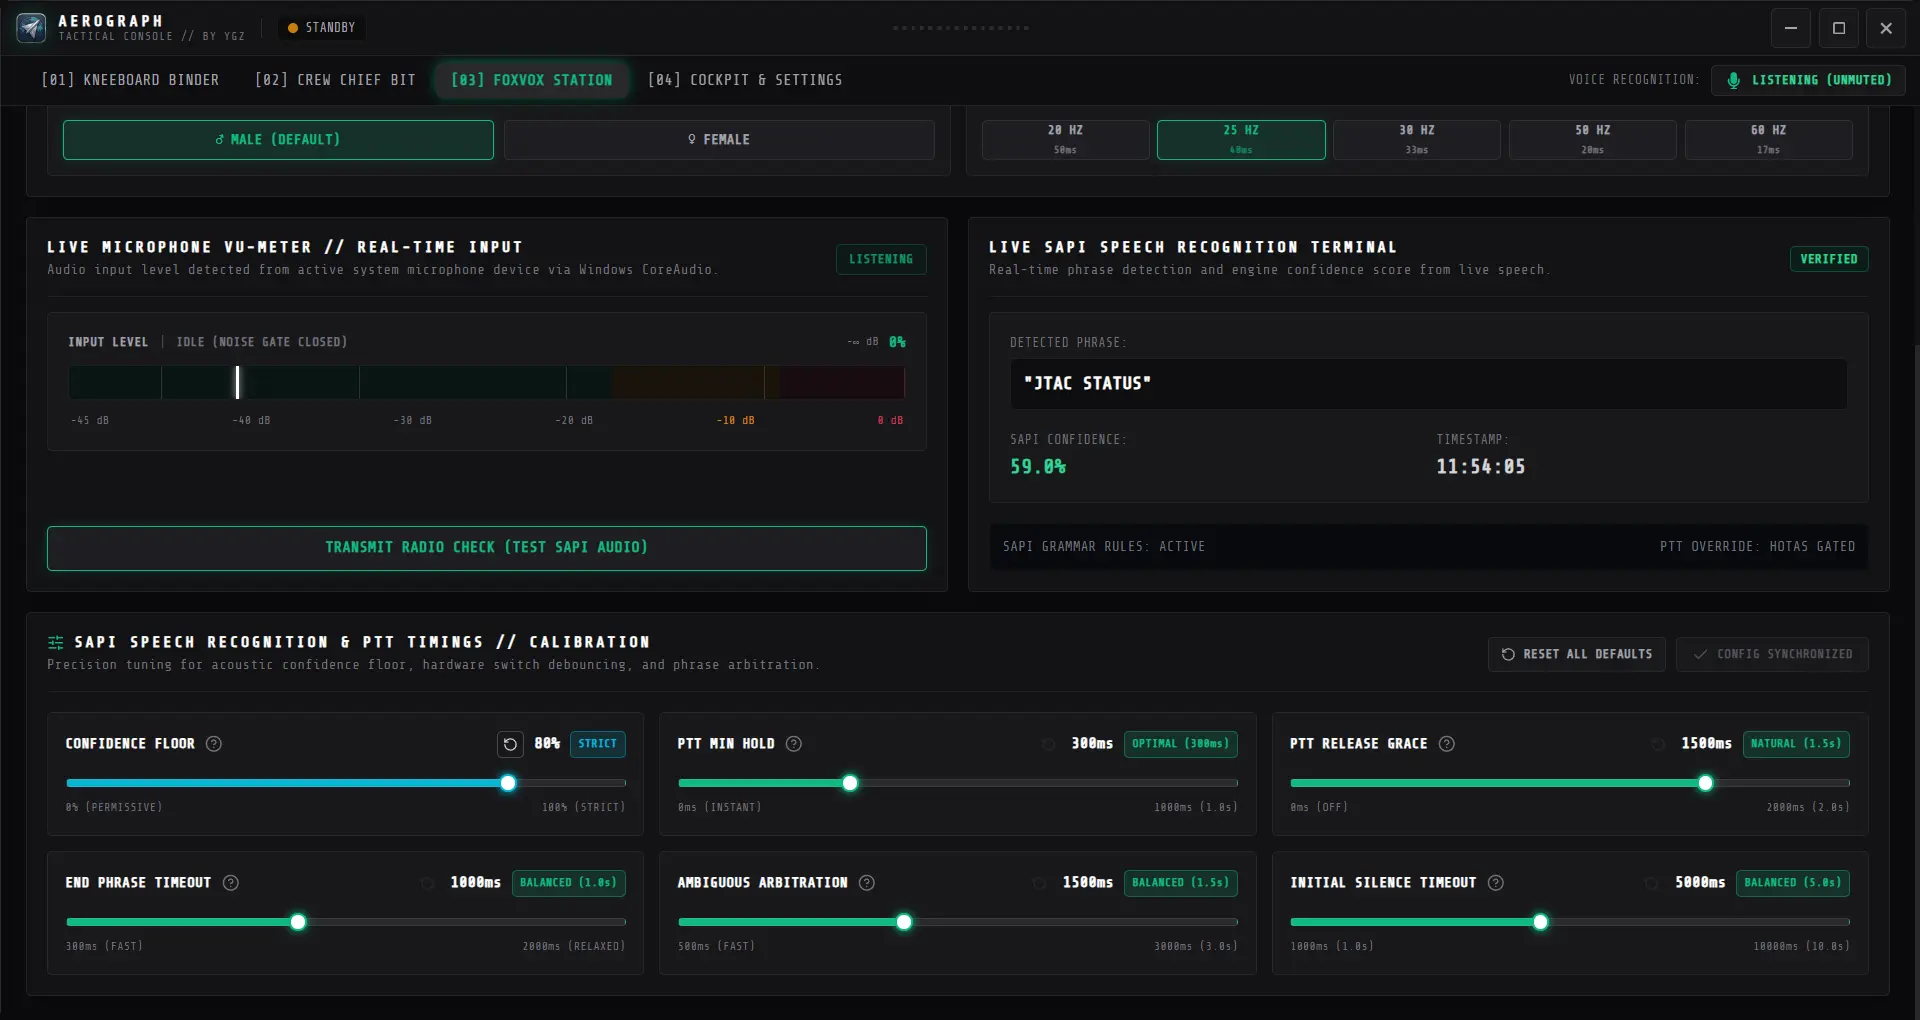
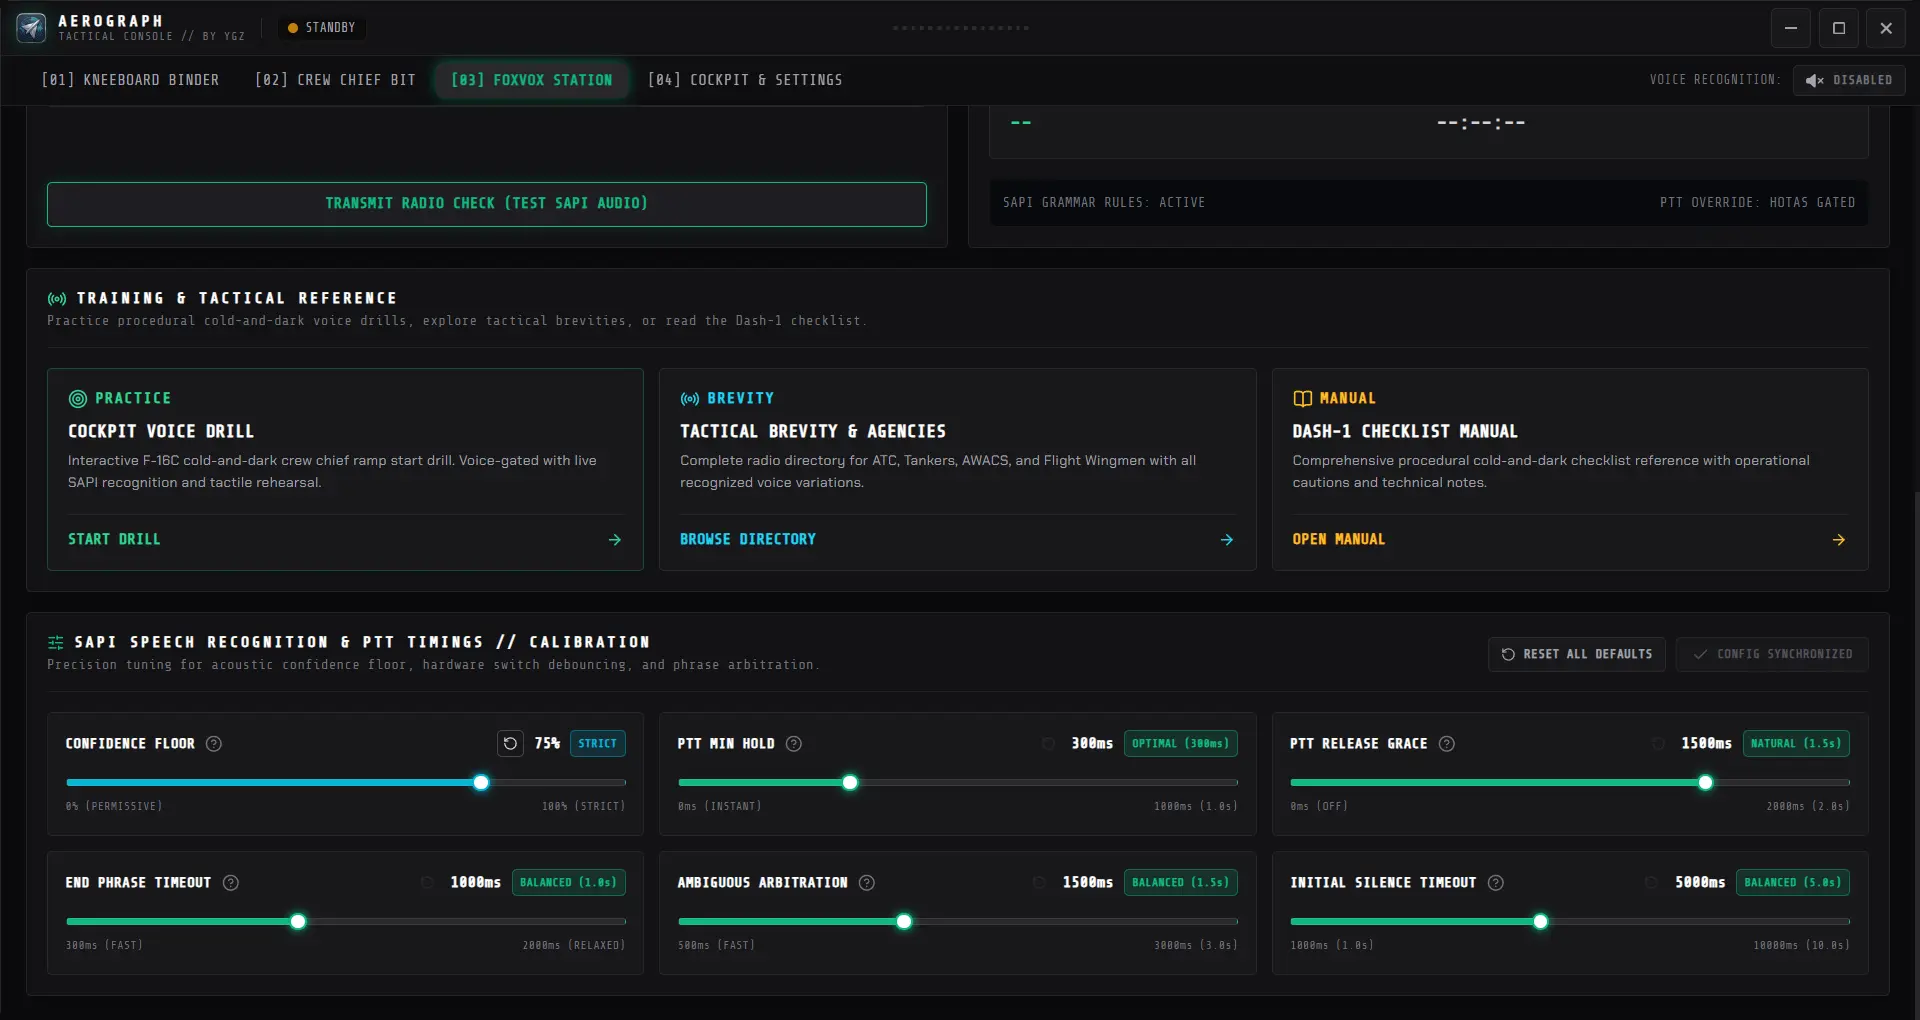
docs: document Crew Chief Academy modules, architecture subsystem, and interactive training cues

diff --git a/README.md b/README.md
@@ -48,7 +48,7 @@
 1. **Automated Kneeboard Generator & Live Briefing Watcher**: 
    A multi-threaded pipeline that detects mission briefings and dynamically renders pixel-calibrated, high-contrast, VR-optimized kneeboards (Package Roster, Comms Ladder, Steerpoints, Weather, 16k SkyVector Route & Combat Area Maps, Dynamic Airfield Ground Taxi Diagrams, ILS Approach Plates, and T.O. 1F-16 POH Flight Reference Cards). Texture injection into Falcon BMS 3D cockpit files (`7982.dds` through `7997.dds`) executes in **under 1.5 seconds**, while the entire end-to-end cycle; from briefing file detection to HTML rendering, map cropping, and texture injection, typically finishes in **under 10 seconds**.
 2. **Crew Chief & Cockpit Voice Engine**: 
-   A speech-recognition copilot and ground crew engine powered by the Microsoft Speech API (SAPI), DirectInput 8 HOTAS hardware axis and button sampling, and FoxVox `.fvx` profiles. Includes state-machine tracking (e.g. MPO kick check validation, wheel chocks, external air/power, engine start sequences) and low-latency audio cue feedback.
+   A speech-recognition copilot and ground crew engine powered by the Microsoft Speech API (SAPI), DirectInput 8 HOTAS hardware axis and button sampling, and FoxVox `.fvx` profiles. Includes state-machine tracking (e.g. MPO kick check validation, wheel chocks, external air/power, engine start sequences), low-latency audio cue feedback, and the **Crew Chief Academy** for procedural voice ramp start rehearsals, Dash-1 checklists, and in-flight brevity reference.
 
 ---
 
@@ -580,7 +580,7 @@ The **Crew Chief BIT** view is a dedicated pre-flight diagnostic station for fli
   <em>FoxVox Station: Real-time CoreAudio microphone VU-meter, live SAPI speech recognition terminal, and profile controller.</em>
 </p>
 
-The **FoxVox Station** is your comms center and real-time speech operations dashboard, uniting profile management, real-time audio meters, and live phrase recognition:
+The **FoxVox Station** is your comms center and real-time speech operations dashboard, uniting profile management, real-time audio meters, live phrase recognition, and the interactive **Crew Chief Academy**:
 
 #### 8.1 Profile Controller & Engine Management
 - **Voice Recognition Master Toggle**: One-click switch to turn speech recognition and controller switch sampling `ON` or `OFF`.
@@ -640,6 +640,57 @@ Different pilots fly with different microphones, headset background noise, and H
 - **`RESET ALL DEFAULTS`**: One-click reset to restore all six calibration parameters together.
 - **`DISCARD`**: Abandons unsaved slider changes and restores your currently saved configuration.
 - **`APPLY CONFIGURATION (UNSAVED)`**: A pulse-highlighted emerald button appears whenever any slider is adjusted. Clicking it writes your changes to `aerograph.toml` and hot-reloads the active Windows SAPI engine parameters live in memory without restarting AeroGraph or interrupting Falcon BMS!
+
+---
+
+#### 8.4 Crew Chief Academy & Procedural Voice Trainer
+
+The **Crew Chief Academy** is an interactive procedural training and reference module built directly into the FoxVox Station. It allows virtual pilots to practice the complete ramp start sequence with real-time speech validation, study the flight manual checklist, and look up in-flight voice commands.
+
+##### 8.4.1 Interactive Cockpit Voice Drill (`[PRACTICE DRILL]`)
+
+<p align="center">
+  <img src="docs/images/voice-drill.webp" alt="Cockpit Voice Drill Practice Stage" width="950" /><br />
+  <em>Cockpit Voice Drill: Step-by-step sequential ramp start rehearsal with live speech recognition, visual cockpit panel locators, and DirectInput flight control surface monitors.</em>
+</p>
+
+The **Cockpit Voice Drill** walks you through the entire ramp start sequence step by step before jumping into the simulator:
+- **Sequential 18-Step Rehearsal**: Progresses through pre-start comms checks, JFS engagement, SEC checks, FLCS BIT clearance, manual trim checks, control surface movements, and wheel chock removal.
+- **Live Speech Verification**: Listens for your authentic voice transmissions through your microphone and validates them against the active voice profile grammar before advancing to the next step.
+- **Cockpit Locator Guides**: Visual cues and locator overlays highlight the exact panel, switch position, and avionics indicators associated with each procedural check.
+- **Real-Time Control Surface Feedback**: Integrated live gauges for Elevator, Ailerons, Rudder, and Toe Brakes during control checks.
+- **Dedicated Ground Audio**: Automatically silences background profile triggers while in drill mode, playing authentic step-by-step ground crew feedback.
+
+##### 8.4.2 Tactical Brevity & Agencies Directory (`[TACTICAL BREVITY]`)
+
+<p align="center">
+  <img src="docs/images/brevity.webp" alt="Tactical Brevity and Agencies Directory" width="950" /><br />
+  <em>Tactical Brevity Directory: Real-time agency voice catalog with live hot-mic speech recognition and automated card centering.</em>
+</p>
+
+The **Tactical Brevity Directory** acts as a live voice command reference across all agencies:
+- **Agency Categorization**: Filter commands across ATC, AWACS, Tanker, Flight, and Wingman agencies.
+- **Live Voice Detection**: Speak any brevity phrase into your microphone; the directory automatically highlights the matching command card and scrolls it smoothly into view.
+- **In-Flight Safe**: Safe to open during active flights—it never reloads the voice profile or interrupts ongoing communications.
+
+##### 8.4.3 Dash-1 Procedural Checklist Manual (`[CHECKLIST MANUAL]`)
+
+<p align="center">
+  <img src="docs/images/dash-1.webp" alt="Dash-1 Procedural Checklist Manual" width="950" /><br />
+  <em>Dash-1 Checklist Manual: High-contrast procedural ledger organized by operational phase with step codes, pilot directives, verbal callouts, and panel locations.</em>
+</p>
+
+The **Dash-1 Checklist Manual** provides an authentic flight manual checklist organized in a clean, high-contrast ledger:
+- **Operational Phases**: Color-coded phase badges (`PRE_START`, `ENGINE_START`, `SECONDARY_POWER`, `FLIGHT_CONTROLS`, `TAXI_CLEAR`).
+- **Four-Column Breakdown**:
+  - **Step & Code**: Sequential reference numbers.
+  - **Action Item**: Exact cockpit directive and switch position.
+  - **Verbal Callout**: The spoken pilot transmission or crew chief response.
+  - **Panel Location**: Cockpit location coordinates for rapid switch acquisition.
+
+##### 8.4.4 Operational Familiarization Notice
+
+When entering the Cockpit Voice Drill or Dash-1 Checklist, an operational notice shares the my personal cockpit flow (integrating DTC loading, sensor power-up, and avionics setup between steps) and highlights the priority of the official Falcon BMS documentation. You can dismiss the notice permanently using the *"Do not show this notice again"* checkbox, or re-open it at any time using the `?` icon in the top header.
 
 ---
 
@@ -886,6 +937,9 @@ Use `{color: text}` anywhere in your titles, keys, values, warnings, cautions, c
 For a complete breakdown of all available voice interactions, dialogue trees, hardware DirectInput bindings, and T.O. 1F-16 cockpit procedures, see the dedicated reference:
 
 👉 **[Crew Chief & Cockpit Voice Engine Guide](docs/VOICE_COMMANDS.md)**
+
+> 💡 **Interactive Practice Available:**  
+> You can practice the complete ramp start dialogue interactively using your microphone in TAC's **Cockpit Voice Drill** (`[03] FOXVOX STATION` &rarr; `[PRACTICE DRILL]`) before heading to the flight line.
 
 ### Key Highlights:
 - **System Commands**: Say `"Stand by"` to mute recognition before speaking on human comms; say `"Radio check"` to resume.

diff --git a/docs/ARCHITECTURE.md b/docs/ARCHITECTURE.md
@@ -44,6 +44,7 @@ flowchart TD
         BINDER["Dual Flight Pads Binder<br/>(32 Slots, Live Preview & Staging)"]
         BIT["Crew Chief BIT Station<br/>(Hardware Axis Gauges & MPO)"]
         COMMS["FoxVox Station<br/>(VU Meter, Live Terminal & 6 Sliders)"]
+        ACADEMY["Crew Chief Academy<br/>(Voice Drill, Dash-1 Checklist & Brevity)"]
         SYS["Cockpit & System Settings<br/>(Theme Palettes, Sound & AutoDock)"]
     end
 
@@ -139,6 +140,10 @@ flowchart TD
   - **`ipc.rs`**: Typed JSON IPC bridge handling window controls, telemetry streaming (25 Hz), CoreAudio levels, profile reloading, and config synchronization.
   - **`preset/`**: Standalone mission preset bundles (`.aeropreset`). Gzip-compresses 32-slot configurations, custom notes, HTML templates, and user images with base64 encoding and byte-level deduplication on import.
   - **`SmartAutoDock`**: Automatically closes and tears down the WebView2 instance upon entering Falcon BMS 3D flight, freeing 100% of GPU and memory resources for the simulator.
+  - **Voice Lifecycle & Safety**:
+    - **In-Flight State Preservation**: When the UI is closed while Falcon BMS is in 3D flight (`is_3d || bms_running`), the active voice recognition state is strictly preserved (neither enabled nor disabled) to protect live multiplayer and tactical comms.
+    - **Dormant State Restoration**: When the simulator is offline, entering Academy views captures the baseline voice state and automatically restores it upon exiting or closing the window.
+    - **Drill Audio Decoupling (`cockpit_drill_active`)**: Atomically suppresses duplicate audio playback from the underlying `.fvx` profile during ground rehearsal, allowing `CockpitDrillStage` to orchestrate authentic step-by-step sound feedback via `PlayDrillSound`.
 - **Next.js Frontend (`ui/`)**:
   - **`BinderView`**: Dual kneepad stations (`1L`–`16L`, `1R`–`16R`) with in-memory staging, orbital radial dial jumps, Alt + Scroll wheel page flipping, and live Markdown editor.
   - **`BitView`**: Crew Chief BIT station with live DirectInput flight control surface gauges (Pitch, Roll, Yaw), differential toe brakes with one-click axis inversion toggle, and HOTAS switch diagnostics.
@@ -146,6 +151,12 @@ flowchart TD
     - Master voice recognition toggle, standby mute control, profile manager, and pilot voice selector.
     - Continuous linear VU-meter ($-45\text{ dBFS}$ to $0\text{ dBFS}$) and live speech recognition terminal.
     - **SAPI & PTT Calibration Station**: $3 \times 2$ grid with 6 interactive sliders (Confidence Floor, PTT Min Hold, PTT Release Grace, End Silence, Ambiguous Silence, Initial Silence Timeout) featuring per-slider factory resets (`↺`), dirty state tracking, and live IPC configuration persistence.
+    - **Academy Entry Hub**: Integrated launcher cards for Cockpit Voice Drill, Tactical Brevity Directory, and Dash-1 Manual with automated voice engine lifecycle branching.
+  - **`VoiceAcademyView` (Crew Chief Academy)**:
+    - **`CockpitDrillStage`**: Sequential 18-step ground crew ramp start rehearsal, live Windows SAPI speech verification, integrated cockpit panel locator overlays, and real-time DirectInput FLCS/brake gauges.
+    - **`Dash1ManualView`**: USAF T.O. 1F-16CM-1 procedural checklist ledger table with phase badges, procedural cues, and cockpit panel coordinates.
+    - **`TacticalBrevityView`**: Real-time agency directory with live hot-mic speech recognition, prefix disambiguation, and automated scrolling to recognized commands.
+    - **`AcademyDisclaimerModal`**: Hardware-accelerated Framer Motion modal featuring the signature `ShiningCheckbox`, providing operational context and two-way persistent `localStorage` synchronization.
   - **`SystemView`**: Avionics luminescence color themes (8 HUD palettes), mechanical acoustic relays, and simulation automation options.
 
 ---

diff --git a/docs/VOICE_COMMANDS.md b/docs/VOICE_COMMANDS.md
@@ -8,6 +8,9 @@ This document provides the authentic voice command guide for **AeroGraph**, mapp
 > - Startup procedure contributions by **Tomcattwo**.
 > - *AeroGraph natively executes `.fvx` profiles directly in Rust with zero-overhead SAPI grammar trees. Profile creation or custom key mappings should always be performed inside FoxVox.*
 
+> 💡 **Interactive Practice in TAC:**  
+> Rather than just reading static reference tables, you can practice the complete ramp start dialogue interactively using your microphone in TAC's **Cockpit Voice Drill** (`[03] FOXVOX STATION` &rarr; `[PRACTICE DRILL]`), study the **Dash-1 Checklist Manual**, or search in-flight callouts with live speech recognition in the **Tactical Brevity Directory**.
+
 ---
 
 ## 📖 Table of Contents
@@ -101,6 +104,9 @@ Follow this authentic checklist sequence during cold ramp start:
 ## ✈ Cockpit Voice Communications
 
 These are configurable from FoxVox, and not all of the categories activated by default. If you want to learn more about it, you can checkout the **[FoxVox Tutorial Series](https://foxster.itch.io/foxvox/devlog/870907/foxvox-tutorial-videos)** for more in-depth tutorials.
+
+> 💡 **Live Interactive Directory:**  
+> You can also browse and test all of these in-flight commands inside TAC's **Tactical Brevity Directory** (`[03] FOXVOX STATION` &rarr; `[TACTICAL BREVITY]`). Speak any phrase into your microphone to automatically jump to and highlight its command card.
 
 ### 1. Air Traffic Control (ATC)
 
